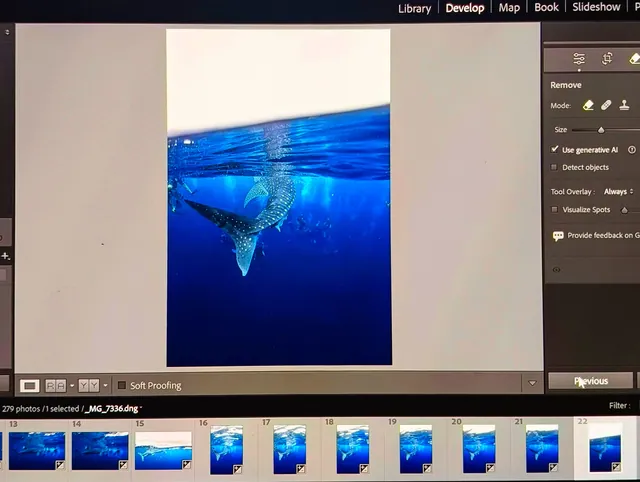
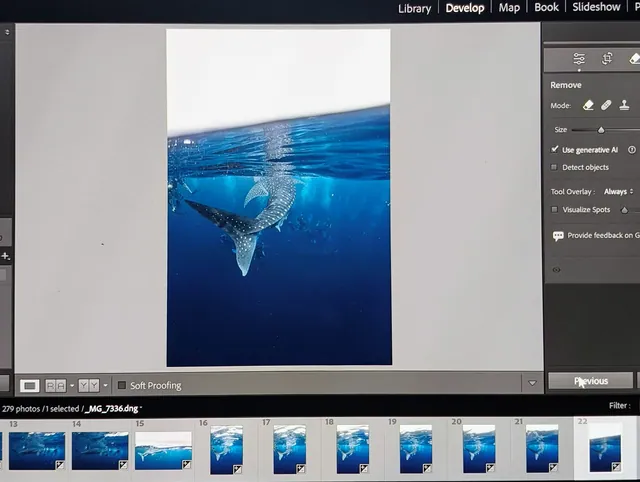
Curso: fotos con su luz y color originales (solo se recorta la de edición)
Claude-Session: https://claude.ai/code/session_01KcgPPdnddZJVUe7ZjNaEv6

diff --git a/motor/build.py b/motor/build.py
@@ -96,9 +96,9 @@ def slug(texto):
 # ── Curso: las tres fotos (de bancos distintos, del móvil…) se igualan en luz, contraste, color y saturación
 #    para que queden acordes. El original no se toca: el ajuste se guarda en .ajustes/ (ignorada por git).
 AJUSTE_VERSION = 1
-def armonizar(src: Path, destino_rel: str, recorte=None) -> Path:
+def armonizar(src: Path, destino_rel: str, recorte=None, color=True) -> Path:
     import numpy as np
-    clave = f"v{AJUSTE_VERSION}-" + ("-".join(f"{c:g}" for c in recorte) if recorte else "x")
+    clave = f"v{AJUSTE_VERSION}-{'c' if color else 'n'}-" + ("-".join(f"{c:g}" for c in recorte) if recorte else "x")
     out = RAIZ / ".ajustes" / destino_rel / f"{src.stem}.jpg"
     marca = out.with_suffix(".txt")
     if out.exists() and out.stat().st_mtime >= src.stat().st_mtime and marca.exists() and marca.read_text() == clave:
@@ -109,6 +109,8 @@ def armonizar(src: Path, destino_rel: str, recorte=None) -> Path:
         if recorte:   # [x0, y0, x1, y1] en fracciones de la foto
             w, h = im.size
             im = im.crop((round(recorte[0] * w), round(recorte[1] * h), round(recorte[2] * w), round(recorte[3] * h)))
+        if not color:   # solo recorte: luz y color originales
+            im.save(out, quality=95); marca.write_text(clave); return out
         im = ImageOps.autocontrast(im, cutoff=0.5)
         a = np.asarray(im).astype(np.float32) / 255
         lum = (0.299 * a[..., 0] + 0.587 * a[..., 1] + 0.114 * a[..., 2]).mean()
@@ -696,7 +698,7 @@ def main():
             f = [en_orig(p_["foto_provisional"])]
             avisos.append(f"Curso foto sub: {C_CURSO}/{p_['carpeta']}/ está vacía; de momento sale una foto de buceo de ejemplo.")
         if f and not p_.get("sin_ajuste"):
-            f = [armonizar(f[0], f"curso/{p_['carpeta']}", p_.get("recorte"))]
+            f = [armonizar(f[0], f"curso/{p_['carpeta']}", p_.get("recorte"), curso.get("igualar_color", False))]
         partes_curso.append({**p_, "foto": optimizar(f[0], f"curso/{p_['carpeta']}") if f else None})
 
     # ── Viajes: una tarjeta por viaje (foto de 8-viajes/<carpeta>/ o foto_provisional) y tira de viajes anteriores ──

diff --git a/CLAUDE.md b/CLAUDE.md
@@ -26,7 +26,7 @@ Web estática de fotografía de surf y buceo (marca **Zaba**). Prioridades: se v
   - El motor acepta los dos nombres (`_primera()` en `build.py`) y `en_orig()` traduce rutas antiguas escritas en los `.yml`. La usuaria renombra ella las carpetas en su Explorador.
   - `3-contacto/`: `portada/` (foto del fondo-mural de Contacto)
   - `6-tienda-de-impresiones/` (en el PC de la usuaria se llama `6-tienda de impresiones`, con espacios; el motor acepta los dos y también los antiguos `5-tienda…` y `5-print-store/`, y `en_orig()` traduce las rutas antiguas): `buceo/`, `surf/` y `dron/` con las fotos que la usuaria pone a la venta (ella las elige porque no todas se pueden imprimir; vacía → de ejemplo, las mejores de esa galería) y `estancias/` (habitaciones de ejemplo y las fotos que la usuaria eligió para colgar en ellas). `portada/` no se usa.
-  - `5-curso-foto-sub/`: `teoria/`, `practica/` (`rosa.jpg`, Rosa con la carcasa) y `edicion/` (foto del móvil de Lightroom en pantalla) con una foto cada una (vacía → `foto_provisional` de `textos/curso.yml`, con aviso). La usuaria pidió que las tres queden acordes: `armonizar()` en `build.py` iguala luz media, contraste y saturación, añade un toque cálido común y aplica `recorte` (fracciones, en `curso.yml`; edición recorta la pantalla). El resultado va a `.ajustes/` (ignorada por git); `sin_ajuste: true` lo desactiva para una parte.
+  - `5-curso-foto-sub/`: `teoria/`, `practica/` (`rosa.jpg`, Rosa con la carcasa) y `edicion/` (foto del móvil de Lightroom en pantalla) con una foto cada una (vacía → `foto_provisional` de `textos/curso.yml`, con aviso). `armonizar()` en `build.py` aplica `recorte` (fracciones, en `curso.yml`; edición recorta la pantalla). Con `igualar_color: true` en `curso.yml` también iguala luz, contraste y saturación, pero a la usuaria NO le gustó la luz así: está en `false` y las fotos salen con su luz y color originales. El resultado va a `.ajustes/` (ignorada por git); `sin_ajuste: true` lo desactiva para una parte.
   - `7-encuentra-tus-fotos/` (ya renombrada por la usuaria; el motor acepta también `6-encuentra-tus-fotos/`): `portada/` (opcional, cabecera) y `<playa>/<AAAA-MM-DD>/` con las fotos de cada sesión. Las playas se definen en `textos/encuentra.yml` → `localizaciones` (carpeta, código, nombre, lugar).
   - `8-viajes/`: `portada/` (opcional, de momento no se usa), una carpeta por viaje (`fuerteventura/` —acepta también `formentera/`, su nombre antiguo: la usuaria se equivocó, el viaje es a Fuerteventura—, `maldivas/`, `viaje-3/`) con una foto (vacía → `foto_provisional` de `textos/viajes.yml`) y `anteriores/` (fotos de viajes ya hechos: si hay, salen en una tira al final).
   - `simulacros/`: capturas de diseños que le gustan a la usuaria, como referencia. No se publican.
